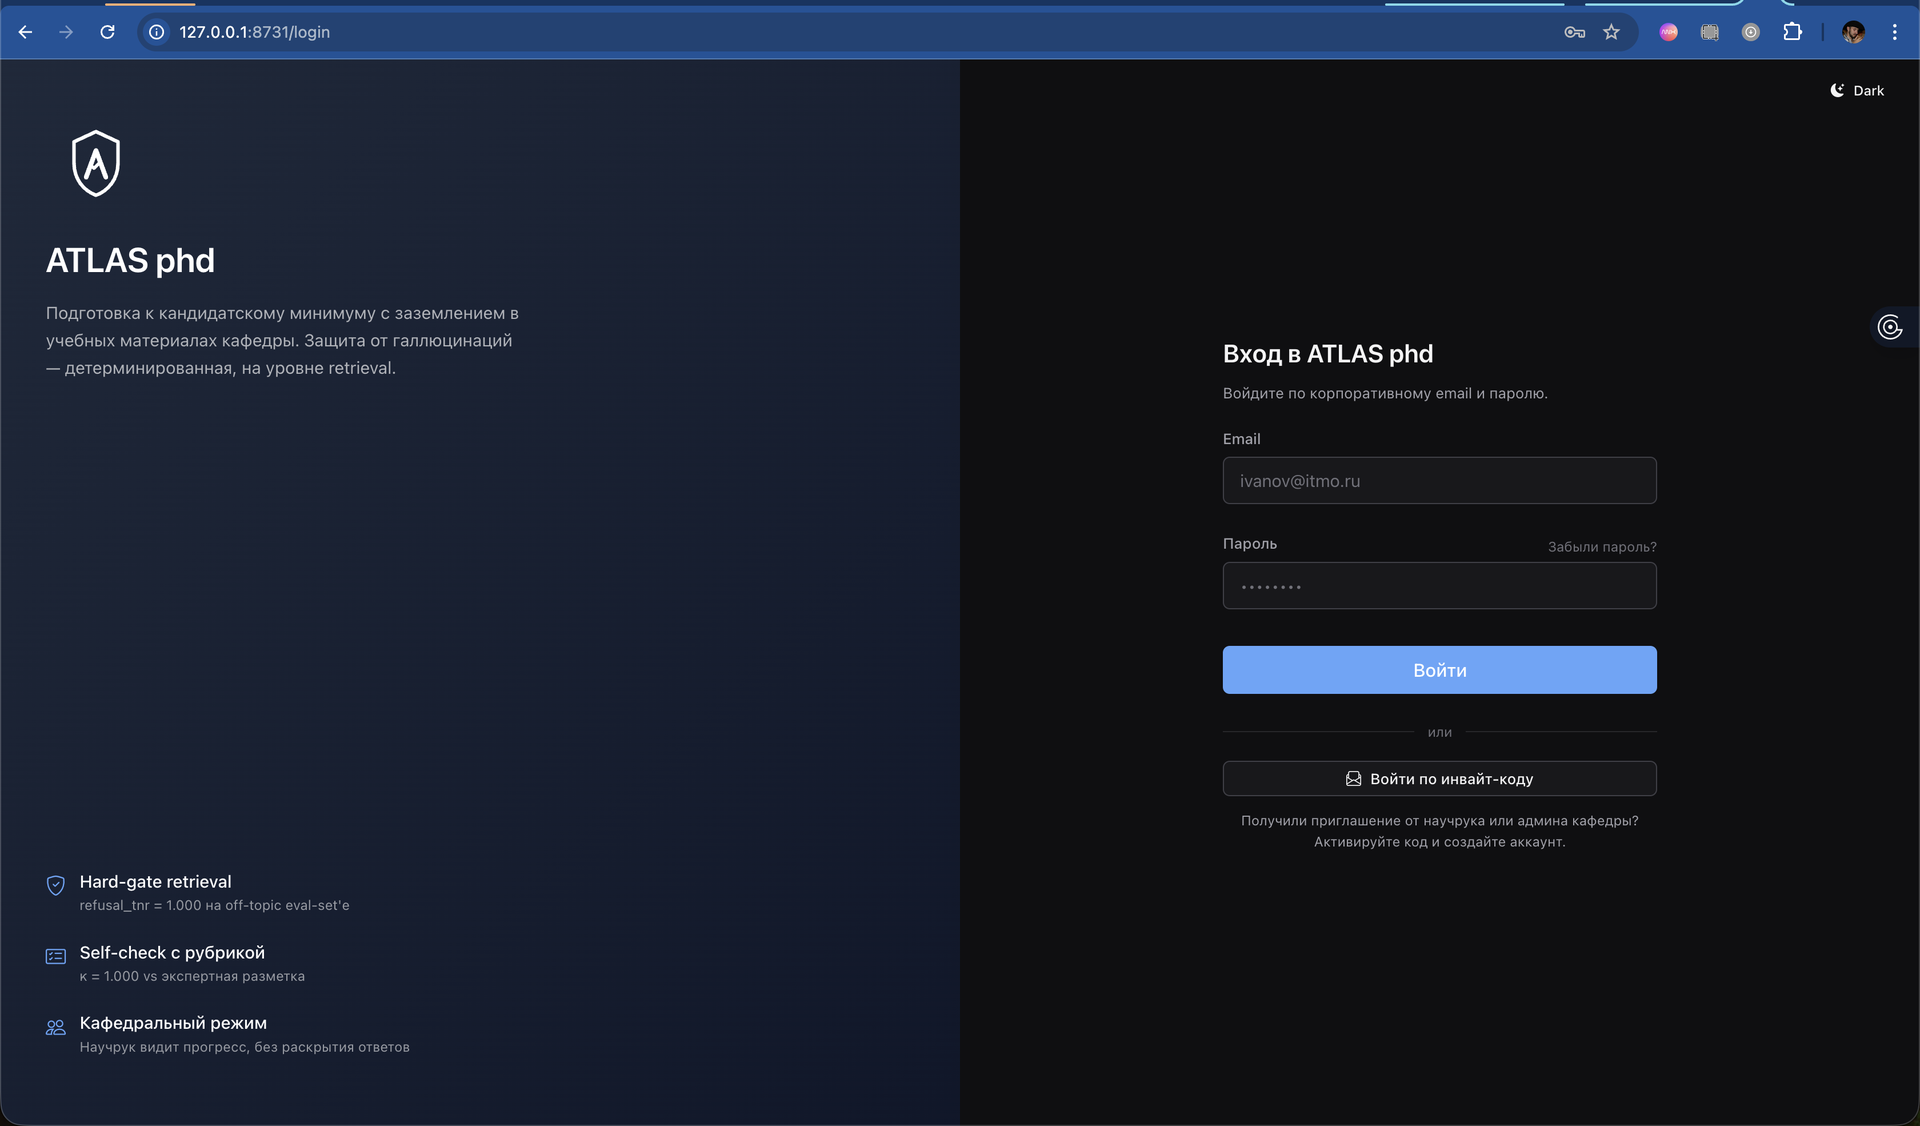
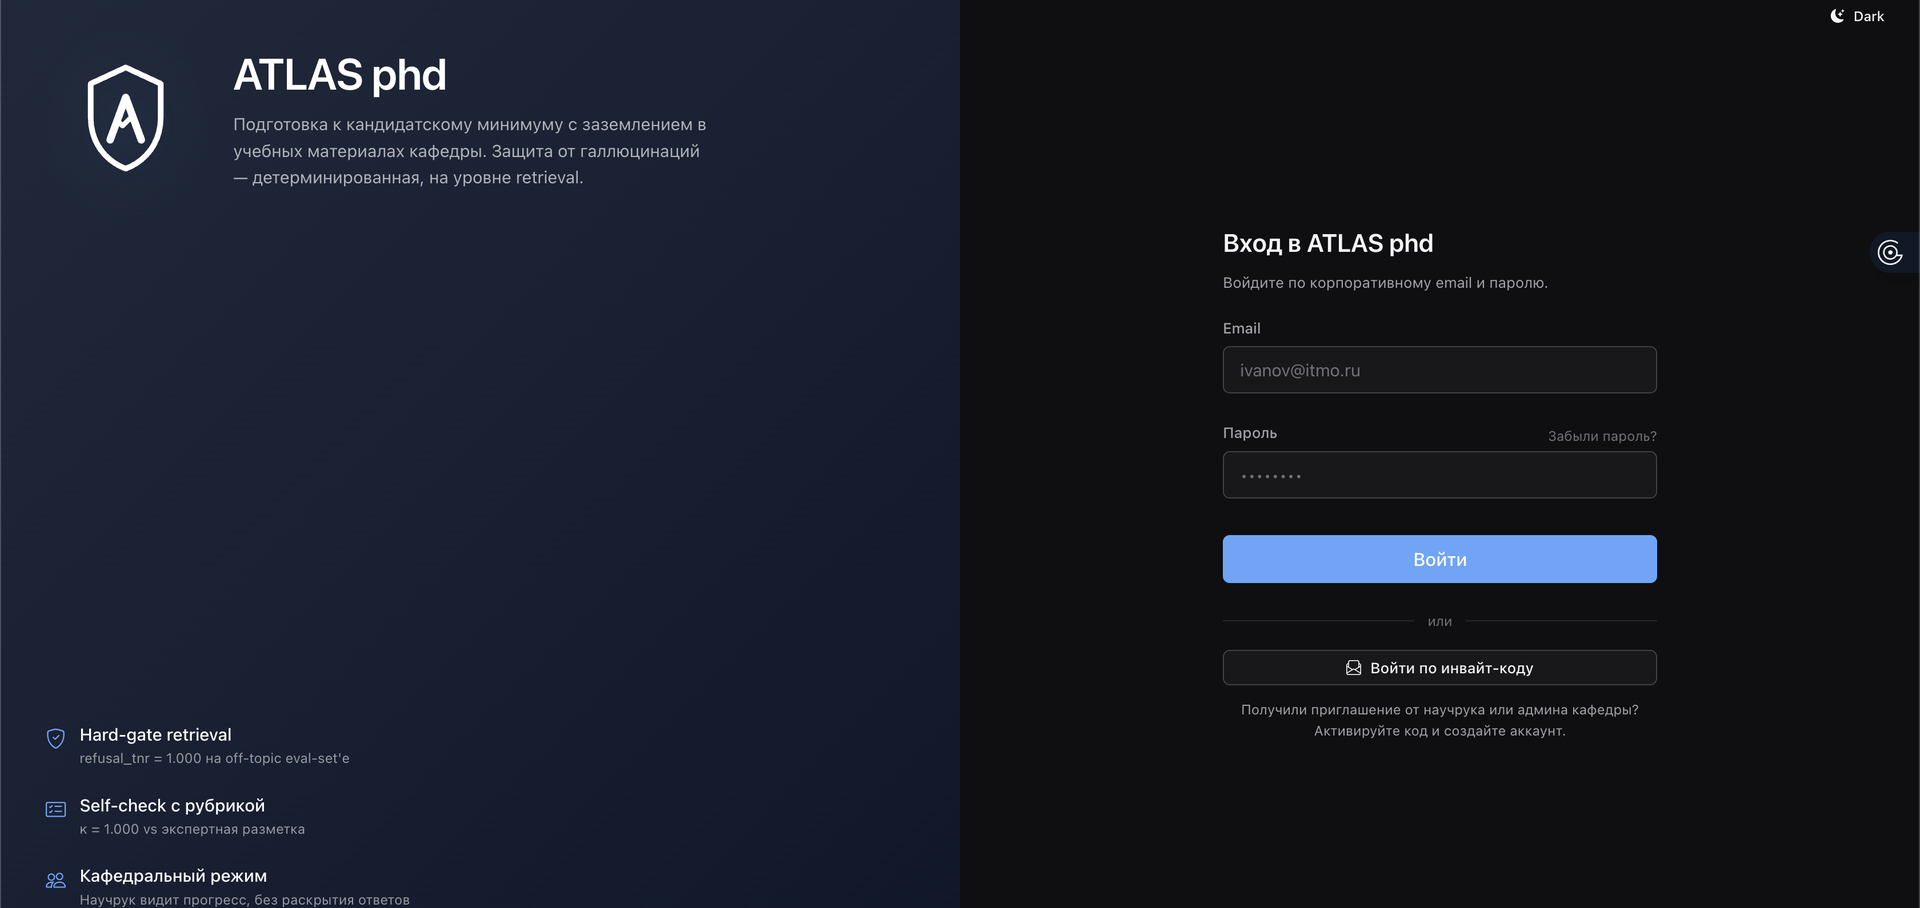
ui(login): крупнее логотип + tagline/subtitle справа от него
Было: shield 88×88 → ниже heading «ATLAS phd» → ниже subtitle (вертикальный stack).
Стало: shield 140×140 (с calm-blue drop-shadow) ↔ flex-row gap-6 ↔ text-stack
с заголовком 2.4rem и subtitle. Адаптивный fallback на 110px / fs-2xl
при ширине <1100px.

Скриншот 01-login.png пересъят с новой раскладкой.

diff --git a/src/atlas/templates/login.html b/src/atlas/templates/login.html
@@ -25,9 +25,38 @@
       flex-direction: column;
       justify-content: space-between;
     }
-    .login-page__brand-mark { width: 88px; height: 88px; margin-bottom: var(--sp-5); filter: brightness(1.1); }
-    .login-page__tagline { font-size: var(--fs-2xl); font-weight: 600; line-height: 1.25; margin-bottom: var(--sp-4); letter-spacing: -0.01em; }
-    .login-page__sub { color: rgba(255,255,255,0.65); font-size: var(--fs-base); line-height: 1.6; max-width: 420px; }
+    .login-page__brand-header {
+      display: flex;
+      align-items: center;
+      gap: var(--sp-6);
+      margin-bottom: var(--sp-2);
+    }
+    .login-page__brand-mark {
+      width: 140px;
+      height: 140px;
+      flex-shrink: 0;
+      filter: brightness(1.1) drop-shadow(0 6px 24px rgba(96, 165, 250, 0.18));
+    }
+    .login-page__brand-text { display: flex; flex-direction: column; gap: var(--sp-3); min-width: 0; }
+    .login-page__tagline {
+      font-size: 2.4rem;
+      font-weight: 600;
+      line-height: 1.1;
+      letter-spacing: -0.015em;
+      margin: 0;
+    }
+    .login-page__sub {
+      color: rgba(255,255,255,0.65);
+      font-size: var(--fs-base);
+      line-height: 1.55;
+      max-width: 420px;
+      margin: 0;
+    }
+    @media (max-width: 1100px) {
+      .login-page__brand-header { gap: var(--sp-4); }
+      .login-page__brand-mark { width: 110px; height: 110px; }
+      .login-page__tagline { font-size: var(--fs-2xl); }
+    }
     .login-page__bullet { display: flex; gap: var(--sp-3); align-items: flex-start; margin-bottom: var(--sp-3); }
     .login-page__bullet i { color: #60A5FA; font-size: 1.1rem; margin-top: 2px; }
     .login-page__bullet-title { font-weight: 500; color: #fff; }
@@ -53,10 +82,14 @@
 
   <aside class="login-page__brand">
     <div>
-      <img src="/static/icons/atlas-shield-inverted.svg" class="login-page__brand-mark" alt="ATLAS phd">
-      <h1 class="login-page__tagline">ATLAS phd</h1>
-      <div class="login-page__sub">
-        Подготовка к кандидатскому минимуму с заземлением в учебных материалах кафедры. Защита от галлюцинаций — детерминированная, на уровне retrieval.
+      <div class="login-page__brand-header">
+        <img src="/static/icons/atlas-shield-inverted.svg" class="login-page__brand-mark" alt="ATLAS phd">
+        <div class="login-page__brand-text">
+          <h1 class="login-page__tagline">ATLAS phd</h1>
+          <div class="login-page__sub">
+            Подготовка к кандидатскому минимуму с заземлением в учебных материалах кафедры. Защита от галлюцинаций — детерминированная, на уровне retrieval.
+          </div>
+        </div>
       </div>
     </div>
 
